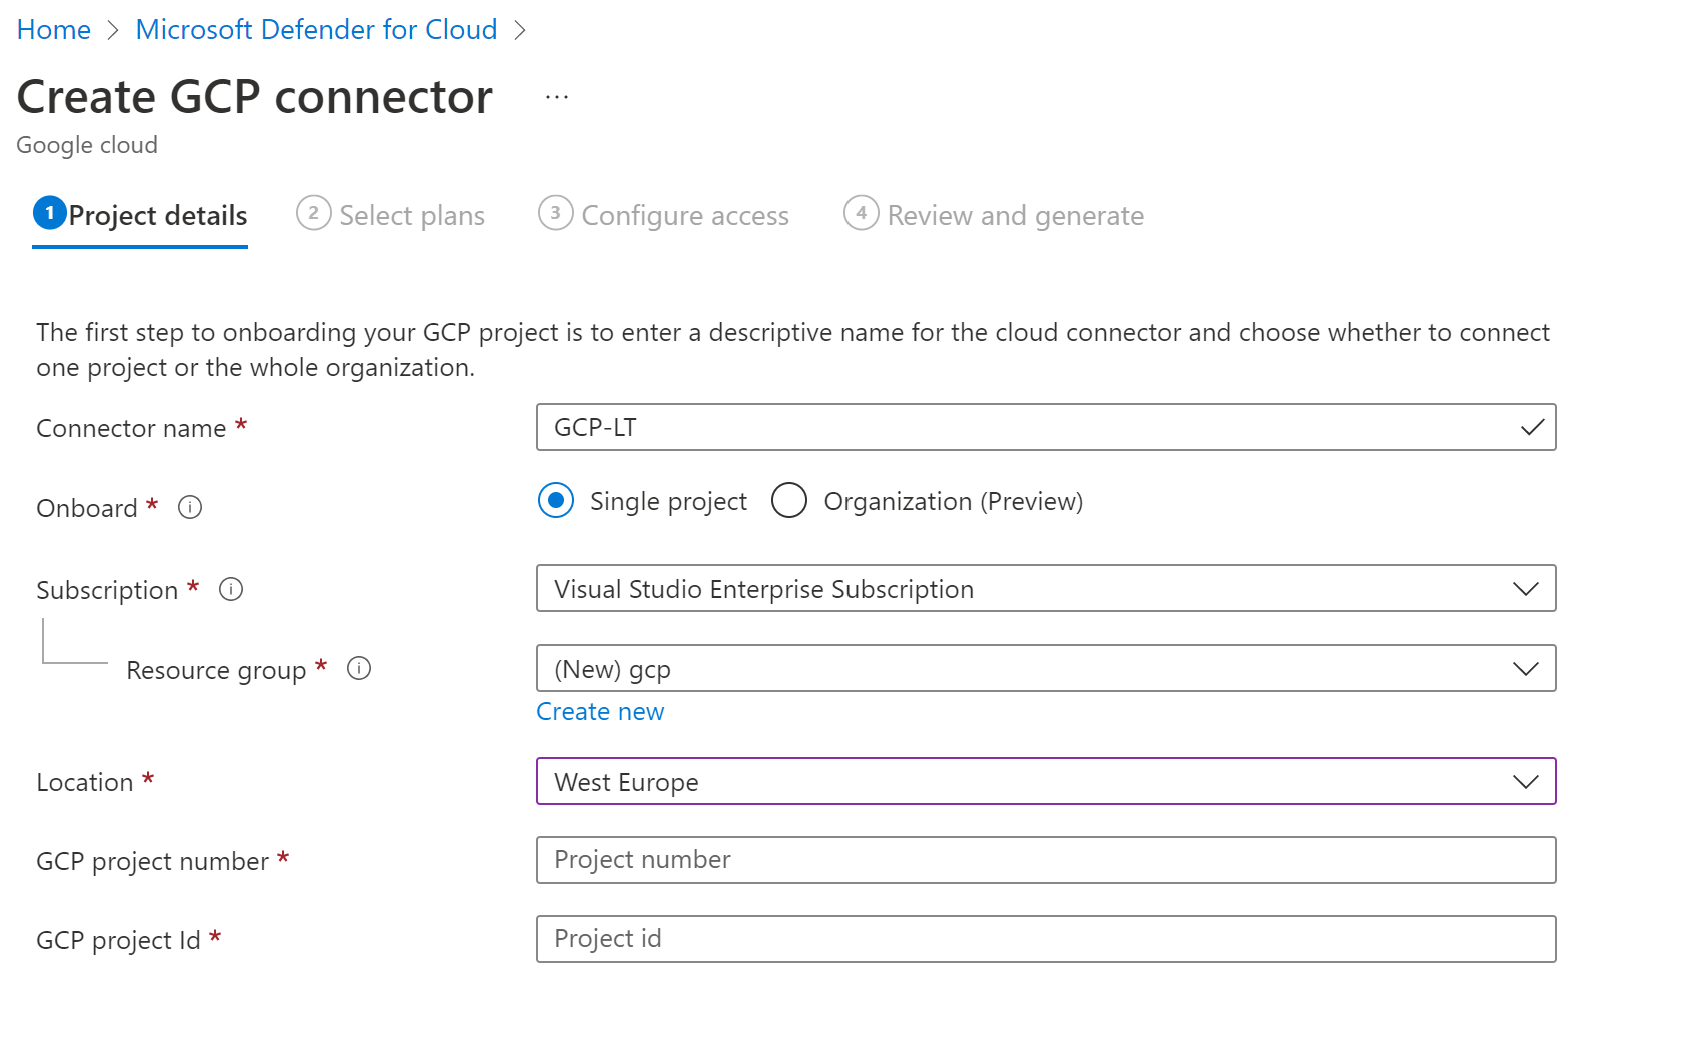
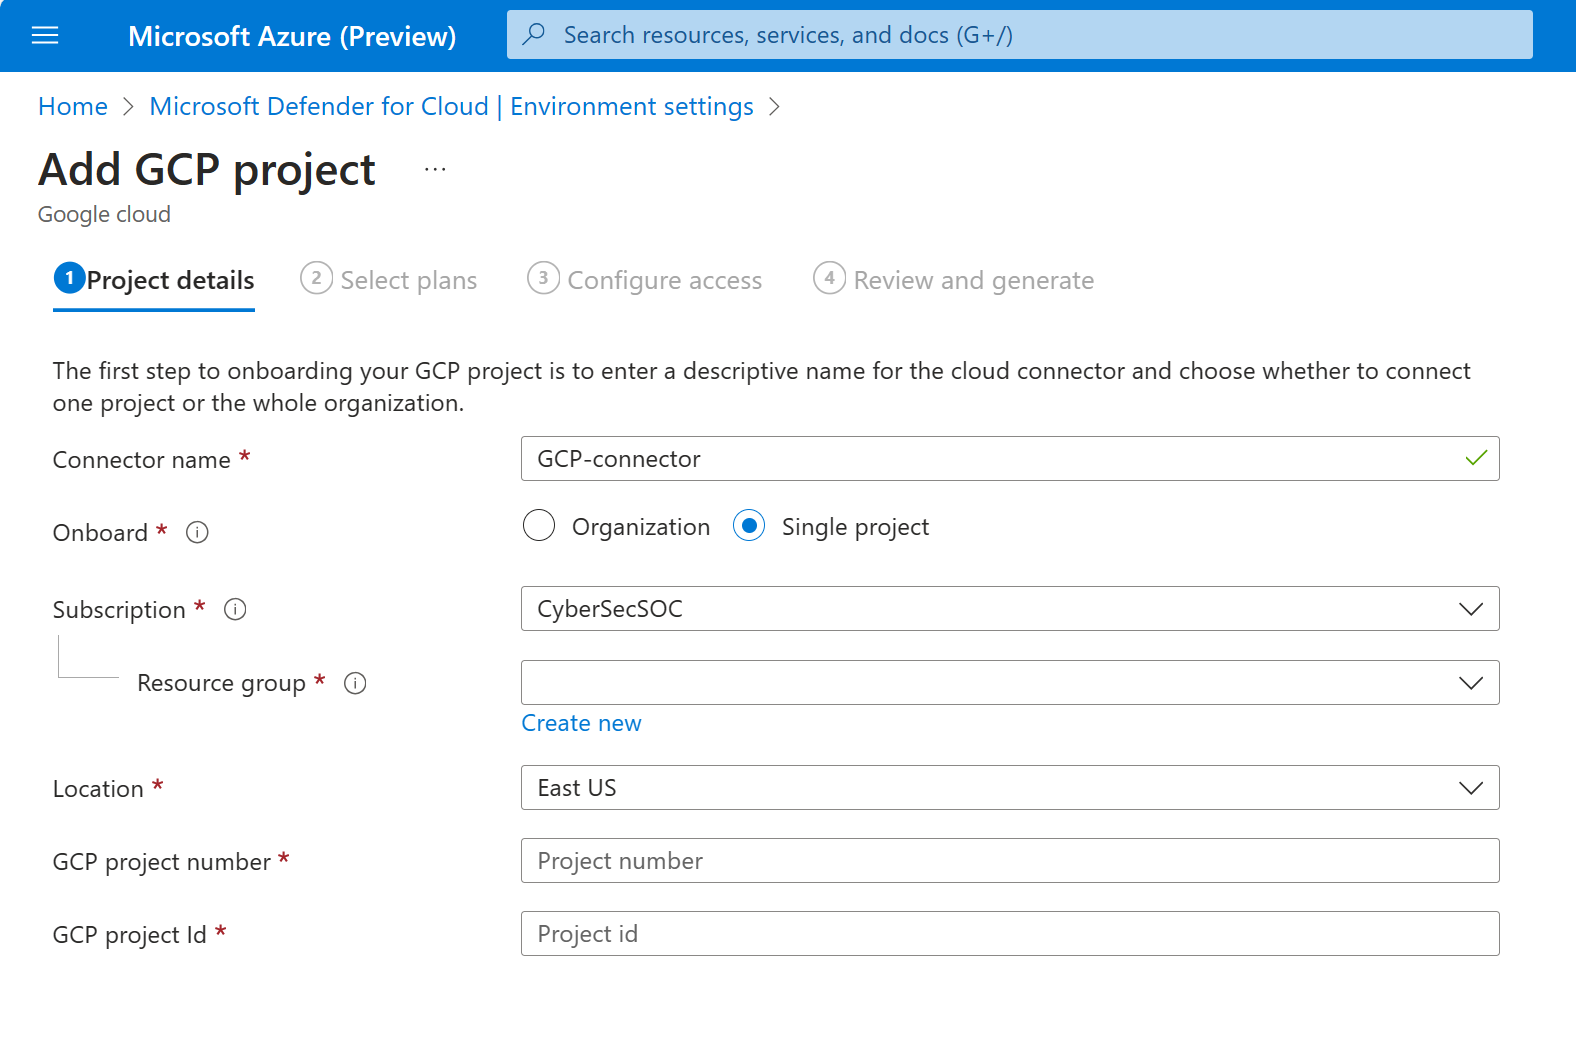
Updated Labs Module 10
Updated GCP Module in Labs

diff --git a/Labs/Modules/Module-10-GCP.md b/Labs/Modules/Module-10-GCP.md
@@ -51,40 +51,28 @@ In order to be able to protect your GCP resources in Microsoft Defender for Clou
 ![Create GCP connector](../Images/4creategcpconnector.png?raw=true)
 
 5.  After filling everything in, click **Next: Select plans**.
-6. In **Select plans**, ensure the following are **On**:
-Security posture management (**On** by default)
-Severs
-Containers
+6. In **Select plans**, the Foundational CSPM plan is enabled by default.
+
+7. Ensure that the Defender CSPM, Servers, Containers and Database plans are set to **On**. 
 
 ![GCP plans](../Images/5gcpplans.png?raw=true)
 
-7. Select **Next: Configure access**.
-8. Copy the GCP Cloud Shell script. 
+8. Select **Next: Configure access**.
+9. Copy the GCP Cloud Shell script. 
 ![GCP script](../Images/6scpscript.png?raw=true)
-9. Click **GCP Cloud Shell** button which will open up the GCP console with Cloud Shell.
-10. Paste the script into the Cloud Shell.
+10. Click **GCP Cloud Shell** button which will open up the GCP console with Cloud Shell.
+11. Paste the script into the Cloud Shell.
 
 ![GCP console with Cloud Shell](../Images/7gcpconsole.png?raw=true)
-11. let the script run and when it finishes, copy the Service account unique numeric ID.
-
-12. Back in the **Configure access** page in **Defender for Cloud**, have the follwing as:
-
-**Security posture management**: leave as default
-
-**Containers**: leave as default
-
-**Servers**: leave as default
-
-**Service account unique numeric ID**: paste it in after running the script.
-
-13. Click **Next: review and Generate**.
-14. In the next screen, after validation completes succesfully, click **create**
+12. Let the script run and after it finishes successfully return to Defender for Cloud. 
+13. Back in the **Configure access** page click **Next: review and Generate**.
+14. In the next screen, after validation completes succesfully, click **Create**
 
 Now, you have successfully created a GCP connector in Microsoft Defender for Cloud. Now you'll be able to get GCP recommendations and alerts.
 
 ### Exercise 3: Investigate the GCP recommendations 
 
-Once a vulnerable image has been pushed to the Azure Container Registry registry, then Microsoft Defender for Containers will start scanning the image for vulnerabilities, by using Qualys. You will now look into the recommendations in Microsoft Defender for Cloud for this. 
+Once a vulnerable image has been pushed to the Azure Container Registry registry, then Microsoft Defender for Containers will start scanning the image for vulnerabilities. You will now look into the recommendations in Microsoft Defender for Cloud for this. 
 
 > [!NOTE]
 > You will need to create some GCP resources in order to see recommendations for GCP in Microsoft Defender for Cloud.
